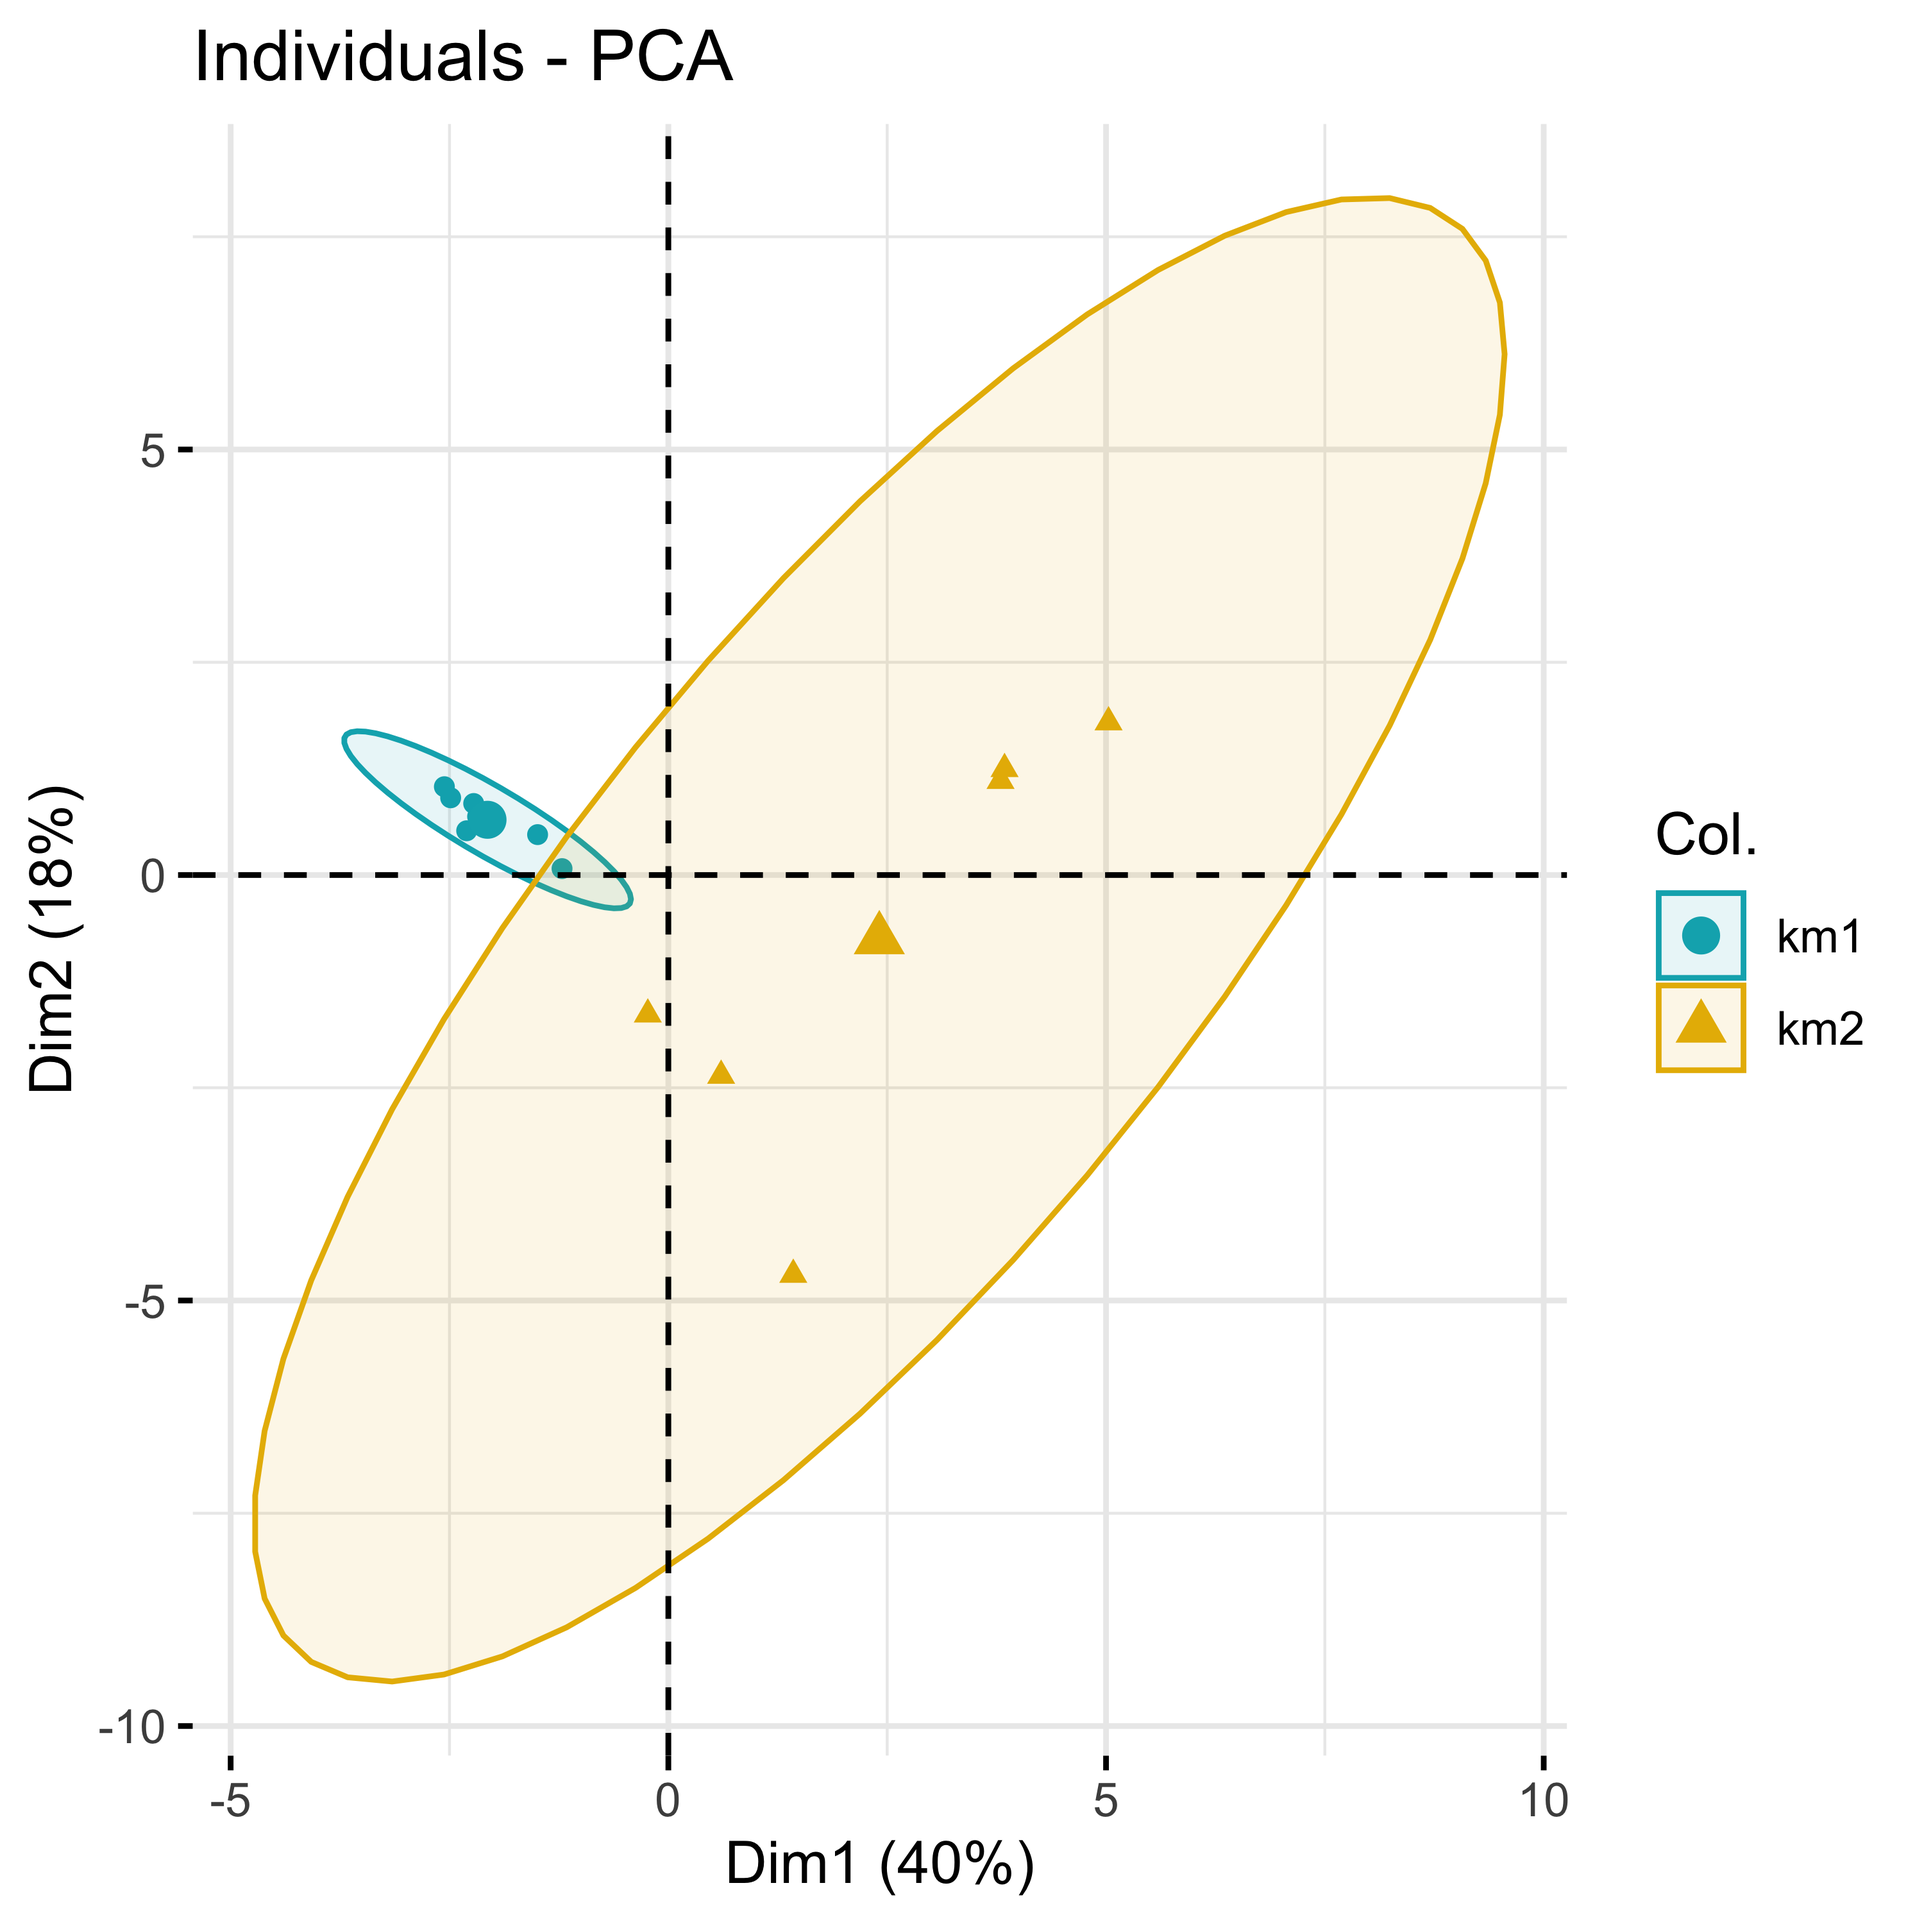
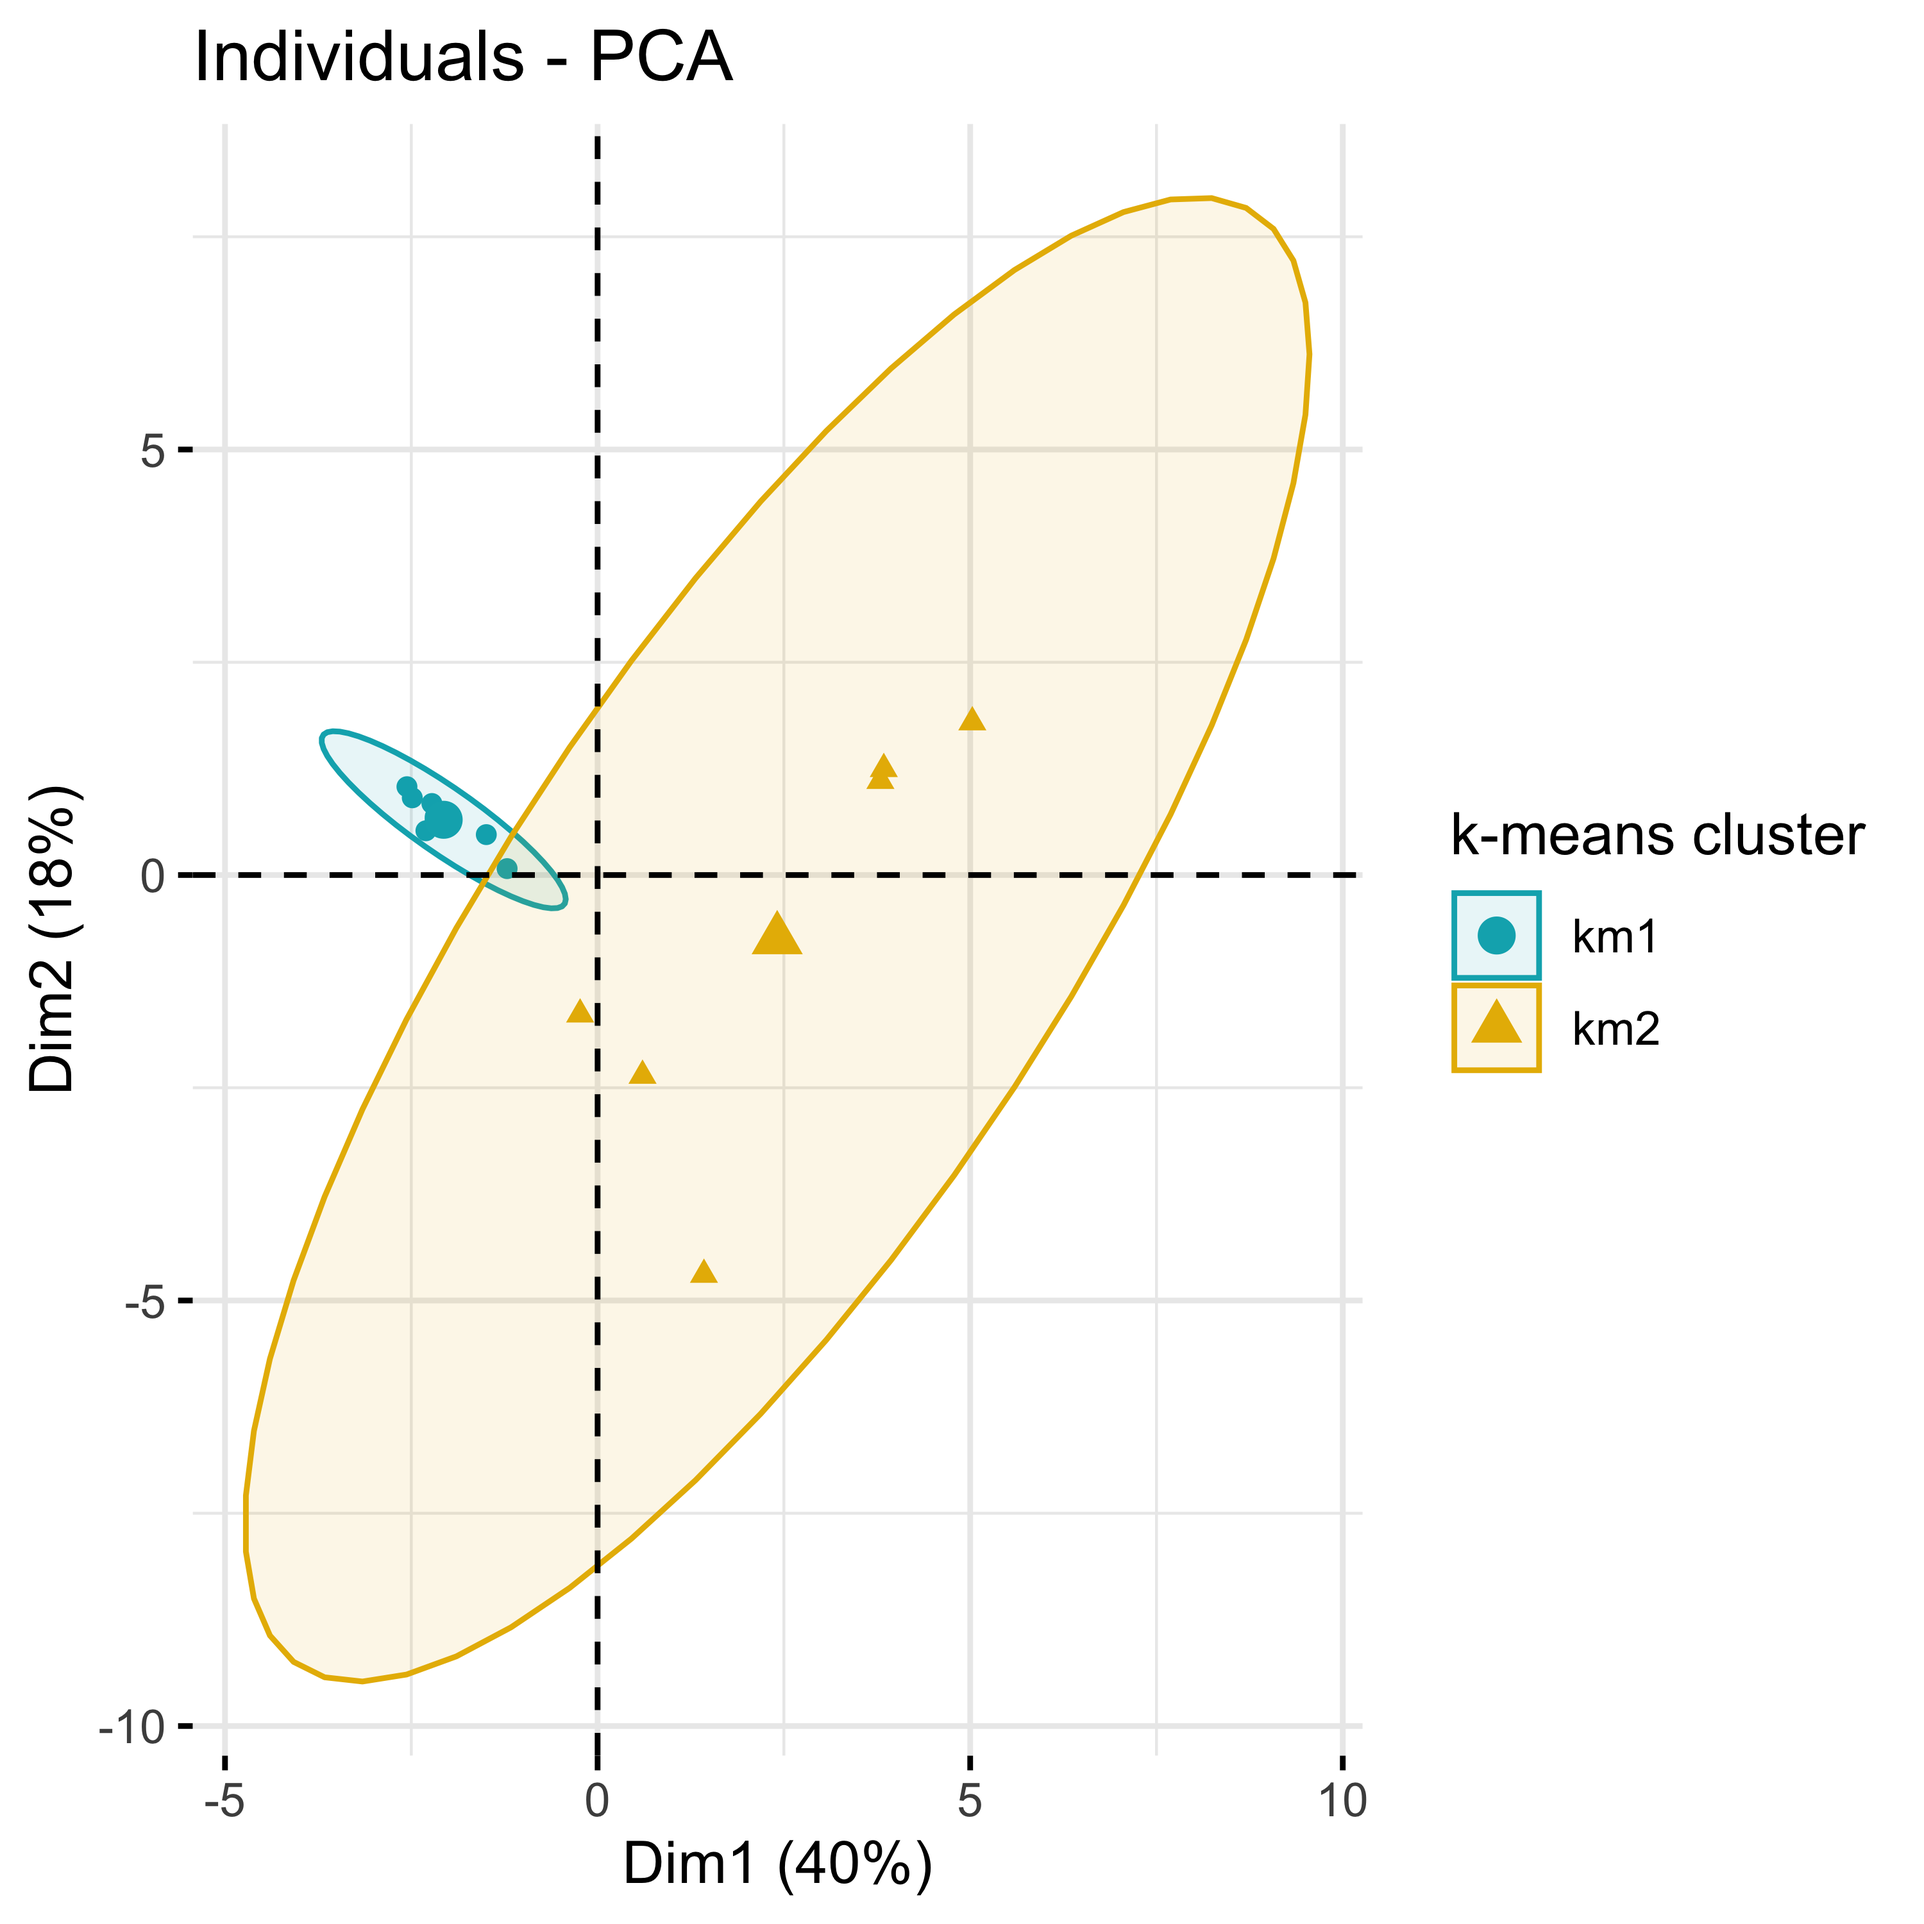
Autodecoder

diff --git a/Analysis Ducoments/AutoDecoder.md b/Analysis Ducoments/AutoDecoder.md
@@ -596,7 +596,7 @@
 3.4 PCA plot based on the representative OTUs
 ---------------------------------------------
 
-    fviz_pca_ind(limma_pca,
+    fviz_pca_ind(limma_pca,legend.title = "k-means cluster",
                  label = "none", # hide individual labels
                  col.ind = final_mat$Class, # color by groups
                  palette = c("#00AFBB", "#E7B800", "#FC4E07"),
